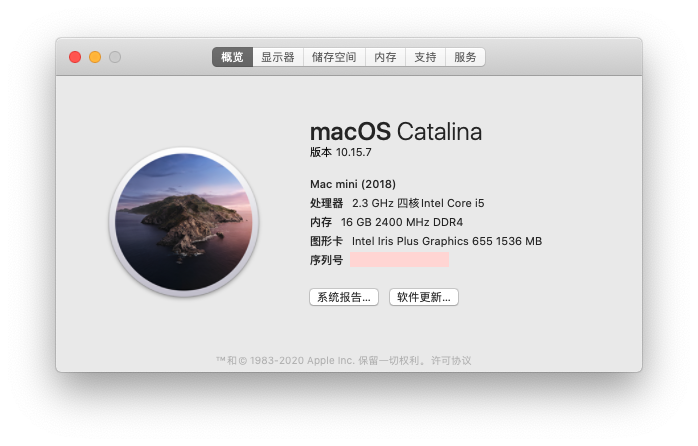
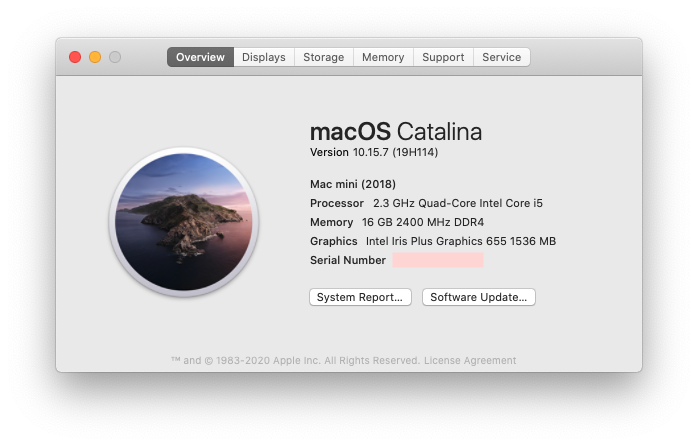
update README.md

diff --git a/README.md b/README.md
@@ -2,9 +2,12 @@
 
 ![Hackintosh](AboutThisMac.png)
 
-### 2020/11/13 更新说明
-+ 10.15.7（19H2）可OTA升级至 19H15 ，实测无任何问题，不用修改EFI。猜测：**小版本**的OTA应该都可以直接升级（10.15.7应该不会再有小更新了）
+### 2020/12/16 更新说明
++ 10.15.7（19H15）可OTA升级至 19H114 ，实测无任何问题，不用修改EFI。
 + 请不要用此EFI直接升级Big Sur，会有各种问题。我会留在Catalina一段时间，等Big Sur稳定了再升级，到时再来分享我使用的EFI（别的地方已经有支持Big Sur的新EFI了，请自行搜索。此仓库只发布本人正在使用的版本）
+
+### 2020/11/13 更新说明
++ 10.15.7（19H2）可OTA升级至 19H15 ，实测无任何问题，不用修改EFI。时间，等Big Sur稳定了再升级，到时再来分享我使用的EFI（别的地方已经有支持Big Sur的新EFI了，请自行搜索。此仓库只发布本人正在使用的版本）
 
 ### 配置
 + OS: macOS Catalina 10.15.7 19H2 x86_64 / Macmini8,1
